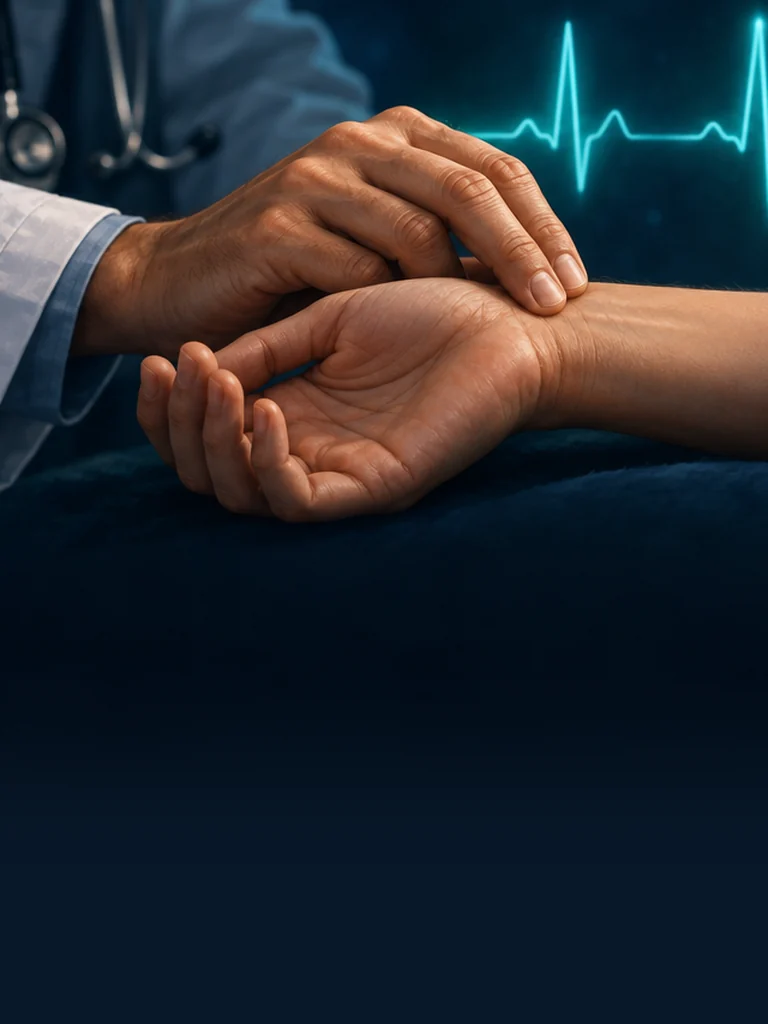
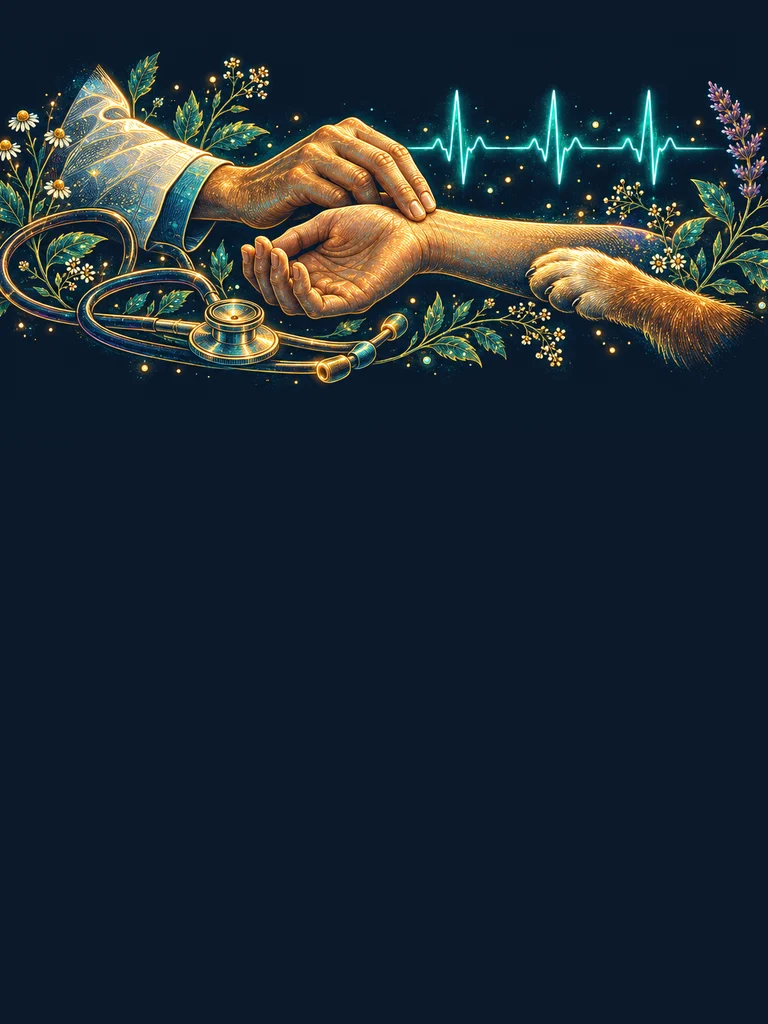
Zorgplaat 'Wat word jij?' opnieuw als illustratie in de stijl van de andere vakplaten (foto viel uit de toon); rondje v-zorg mee

diff --git a/vervolg.html b/vervolg.html
@@ -767,7 +767,7 @@ function overzicht(){
     return [k?`${k} ${k===1?'film':'films'}`:'',n?`${n} komt nog`:''].filter(Boolean).join(' · ')||'komt nog'};
   const tegel=g=>{const c=CL[g.cluster];return `<li><a href="${stap>1?'?stap='+stap:''}#${g.id}"><span class="tk">${VICOON.includes(g.id)?`<img src="img/kunst/iconen/vervolg/${g.id}.webp?v=1" alt="" width="88" height="88" loading="lazy" decoding="async">`:kunst(c.id,c.kleur)}</span><b>${esc(g.naam).replace(/(\S)wetenschappen/g,'$1\u00ADwetenschappen')}</b><span class="mat">${esc(tel(g))}</span></a></li>`};
   return `<section class="ovz" aria-label="Alle vakgebieden"><header><span class="mono">Alle richtingen · studie en beroep</span><h2>Van spreekkamer tot veldwerk</h2><p>Kies een vakgebied. Elk gebied heeft extra films buiten het PTA, en straks ook een werkdag, een praktijkopdracht en de opleidingen.</p></header>
-    ${CLUSTERS.map(c=>`<div class="ovg" id="${c.id}"><div class="ovg-kop${KPLAAT.includes(c.id)?' met-plaat':''}">${KPLAAT.includes(c.id)?`<span class="kplaat" aria-hidden="true" style="--kp:url(img/kunst/vervolg/${c.id}.webp?v=4)"></span>`:''}<h3>${esc(c.naam)}</h3><span class="mono">${esc(c.sub||'')}</span></div><ul>${GEBIEDEN.filter(g=>g.cluster===c.id).map(tegel).join('')}</ul></div>`).join('')}</section>`;
+    ${CLUSTERS.map(c=>`<div class="ovg" id="${c.id}"><div class="ovg-kop${KPLAAT.includes(c.id)?' met-plaat':''}">${KPLAAT.includes(c.id)?`<span class="kplaat" aria-hidden="true" style="--kp:url(img/kunst/vervolg/${c.id}.webp?v=5)"></span>`:''}<h3>${esc(c.naam)}</h3><span class="mono">${esc(c.sub||'')}</span></div><ul>${GEBIEDEN.filter(g=>g.cluster===c.id).map(tegel).join('')}</ul></div>`).join('')}</section>`;
 }
 function render(){
   const g=GB[(location.hash||'').slice(1)];

diff --git a/index.html b/index.html
@@ -3105,7 +3105,7 @@ function home(){
     </article>
     <article class="vlak vlak-later" id="vlak-later">
       <header><span class="mono vlak-lbl">Wat word jij? · studie en beroep</span><h2>Een kijkje vooruit</h2><p>Welke opleidingen en beroepen draaien om biologie, en wat doe je daar echt?</p></header>
-      <ul>${VERDER.map(([id,naam,k,sub])=>`<li><a href="vervolg.html#${id}">${HICOON.includes('v-'+id)?`<span class="tk foto"><img src="img/kunst/iconen/home/v-${id}.webp?v=3" alt="" width="76" height="76" decoding="async"></span>`:`<span class="tk"><svg class="kunst" viewBox="0 0 120 120" fill="none" stroke="currentColor" stroke-linecap="round" stroke-linejoin="round" aria-hidden="true" style="--c:var(--${k})">${VERDERKUNST[id]||''}</svg></span>`}<span class="vtekst"><b>${esc(naam)}</b>${sub?`<span class="sub">${esc(sub)}</span>`:''}</span>${pijl}</a></li>`).join('')}</ul>
+      <ul>${VERDER.map(([id,naam,k,sub])=>`<li><a href="vervolg.html#${id}">${HICOON.includes('v-'+id)?`<span class="tk foto"><img src="img/kunst/iconen/home/v-${id}.webp?v=4" alt="" width="76" height="76" decoding="async"></span>`:`<span class="tk"><svg class="kunst" viewBox="0 0 120 120" fill="none" stroke="currentColor" stroke-linecap="round" stroke-linejoin="round" aria-hidden="true" style="--c:var(--${k})">${VERDERKUNST[id]||''}</svg></span>`}<span class="vtekst"><b>${esc(naam)}</b>${sub?`<span class="sub">${esc(sub)}</span>`:''}</span>${pijl}</a></li>`).join('')}</ul>
       <a class="vlak-naar" href="vervolg.html">Alle richtingen ${pijl}</a>
     </article>
   </section>`;

diff --git a/CLAUDE.md b/CLAUDE.md
@@ -131,7 +131,7 @@ Elke pagina krijgt een knop 'Feedback?' in de kopbalk (naast licht/donker; in fi
 Kerndoelkaarten op 'Agora onderbouw' (`onderbouwPagina()` in index.html, Kamiel 21 okt 2026: "bioart, net ietsje kinderlijker want onderbouw"): vullende plaat achter elke actieve kaart, `img/kunst/onderbouw/<kerndoel>.webp` (3:4, gpt-image-2.5-sunburst; onderwerp boven, onderste 40% leeg navy). Kamiel koos dezelfde avond 'toch de kleurrijke variant': gloedstijl zoals de themapictogrammen (Haeckel-achtig, gloeiend in kleur op navy, prentenboekachtig); de eerste ivoor/goud-gravures staan als `img/kunst/varianten/onderbouw/<kd>-gravure.webp`, de kleurversies ook als `<kd>-kleur.webp`. Lijst `KDPLAAT`; alleen in de donkere stand (klasse `met-plaat`, laag `.kdplaat`, ronde lijntekening dan verborgen), in de lichte stand blijft de lijntekening. 32D (volgt) heeft nog geen plaat. ElevenLabs-flow https://elevenlabs.io/app/flows/lQMpaFmvVYZu5EGHnedr, één variant per plaat.
 Kerndoelkaarten op 'Agora onderbouw' (`onderbouwPagina()` in index.html, Kamiel 21 okt 2026: "bioart, net ietsje kinderlijker want onderbouw"): vullende gravureplaat achter elke actieve kaart, `img/kunst/onderbouw/<kerndoel>.webp` (3:4, gpt-image-2.5-sunburst, ivoor/goud op navy maar ronder en prentenboekachtiger dan de 'Wat word jij?'-platen; onderwerp boven, onderste 40% leeg navy). Lijst `KDPLAAT`; alleen in de donkere stand (klasse `met-plaat`, laag `.kdplaat`, ronde lijntekening dan verborgen), in de lichte stand blijft de lijntekening. 32D (volgt) heeft nog geen plaat. ElevenLabs-flow https://elevenlabs.io/app/flows/lQMpaFmvVYZu5EGHnedr, één variant per plaat.
 
-Vakplaten 'Wat word jij?' (overzicht vervolg.html, `.kplaat`, `img/kunst/vervolg/<cluster>.webp`): sinds 21 okt 2026 in volle kleur in de stijl van de ronde iconen (Kamiel: "dezelfde kleur als de rondjes"; koos variant D uit een test met huidig / gedempt / volle kleur / duotoon). Gemaakt in ElevenLabs-flow https://elevenlabs.io/app/flows/vNa3id4usD89yd4eMKaV (gpt-image-2.5-sunburst, edit met de oude gravure als compositie en een rond icoon als stijl: gedrag→neurowetenschappen, zorg→geneeskunde, lab→biomedisch, voeding→voedingsleer, groen→ecologie, onderwijs→leraar), uitgesneden naar 768×1024 met het onderwerp boven en lege navy onderaan. CSS: plaat op opacity 1, kort verloop onderaan (alleen donkere stand). De oude grijze gravures staan in `img/kunst/vervolg/gravure/`. Zorg (25 okt 2026, Kamiel: de arm zonder huid was 'niet zo appetijtelijk'): nieuwe plaat zonder bloot weefsel, arts die de pols van een patiënt voelt met een teal hartslaglijn, gemaakt in ElevenLabs-flow https://elevenlabs.io/app/flows/bb91z6VjcKPkb4sRspg1 (gpt-image-2.5-sunburst, 16:9, variant 3 van 4; bron in `img/kunst/varianten/vervolg/zorg-polshanden-bron.png`), uitgesneden naar 768×1024 met navy onderaan; ook het rondje `v-zorg` is daaruit gesneden. Oude anatomie-plaat en -rondje: `img/kunst/varianten/vervolg/zorg-anatomie-oud.webp` en `img/kunst/varianten/home/v-zorg-anatomie-oud.webp`.
+Vakplaten 'Wat word jij?' (overzicht vervolg.html, `.kplaat`, `img/kunst/vervolg/<cluster>.webp`): sinds 21 okt 2026 in volle kleur in de stijl van de ronde iconen (Kamiel: "dezelfde kleur als de rondjes"; koos variant D uit een test met huidig / gedempt / volle kleur / duotoon). Gemaakt in ElevenLabs-flow https://elevenlabs.io/app/flows/vNa3id4usD89yd4eMKaV (gpt-image-2.5-sunburst, edit met de oude gravure als compositie en een rond icoon als stijl: gedrag→neurowetenschappen, zorg→geneeskunde, lab→biomedisch, voeding→voedingsleer, groen→ecologie, onderwijs→leraar), uitgesneden naar 768×1024 met het onderwerp boven en lege navy onderaan. CSS: plaat op opacity 1, kort verloop onderaan (alleen donkere stand). De oude grijze gravures staan in `img/kunst/vervolg/gravure/`. Zorg (25 okt 2026, Kamiel: de arm zonder huid was 'niet zo appetijtelijk'): nieuwe plaat zonder bloot weefsel, arts die de pols van een patiënt voelt met een teal hartslaglijn, gemaakt in ElevenLabs-flow https://elevenlabs.io/app/flows/bb91z6VjcKPkb4sRspg1 (gpt-image-2.5-sunburst, 16:9, variant 3 van 4; bron in `img/kunst/varianten/vervolg/zorg-polshanden-bron.png`), uitgesneden naar 768×1024 met navy onderaan; ook het rondje `v-zorg` is daaruit gesneden. Oude anatomie-plaat en -rondje: `img/kunst/varianten/vervolg/zorg-anatomie-oud.webp` en `img/kunst/varianten/home/v-zorg-anatomie-oud.webp`. Dezelfde middag (Kamiel: de fotoversie 'valt nu wel uit de toon') opnieuw gemaakt als illustratie in de stijl van de andere platen: edit met de polsfoto als compositie én de lab-plaat (`img/kunst/vervolg/lab.webp`) als stijlreferentie, met stethoscoop, kruiden, teal hartslaglijn en een hondenpoot (mens en dier); zelfde flow, variant 2 van 4, bron `img/kunst/varianten/vervolg/zorg-illustratie-bron.webp`; plaat en rondje `v-zorg` daaruit gesneden. De fotoversie staat als `zorg-polshanden-foto.webp` (beide varianten-mappen). Les: een nieuwe vakplaat altijd als edit met een bestaande plaat als stijlreferentie, nooit los genereren, anders wordt het een foto.
 
 Filmoverzicht (`#films`, functie `films()`) en lessenoverzicht: sinds 22 okt 2026 (Kamiel: "hier is nog geen bioart") tonen de reekskoppen dezelfde ElevenLabs-medaillons als de themategels op de hoofdpagina (`img/kunst/iconen/<id>.webp`, via `embleem(id)`; valt terug op de lijntekening als het thema niet in `ICOON` staat). Nieuw thema met medaillon → alleen `ICOON` aanvullen.
 
